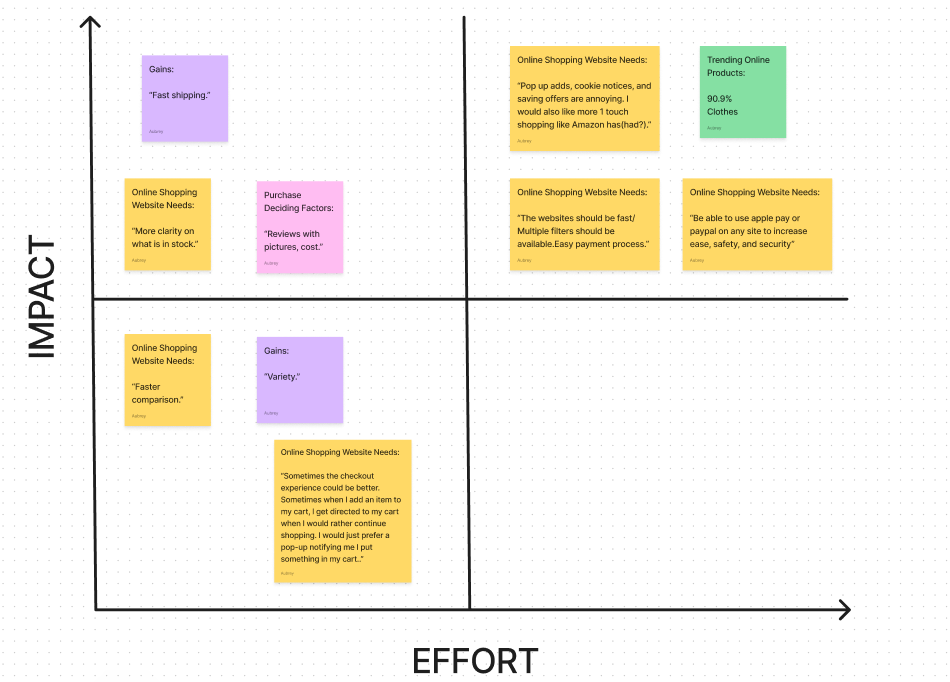
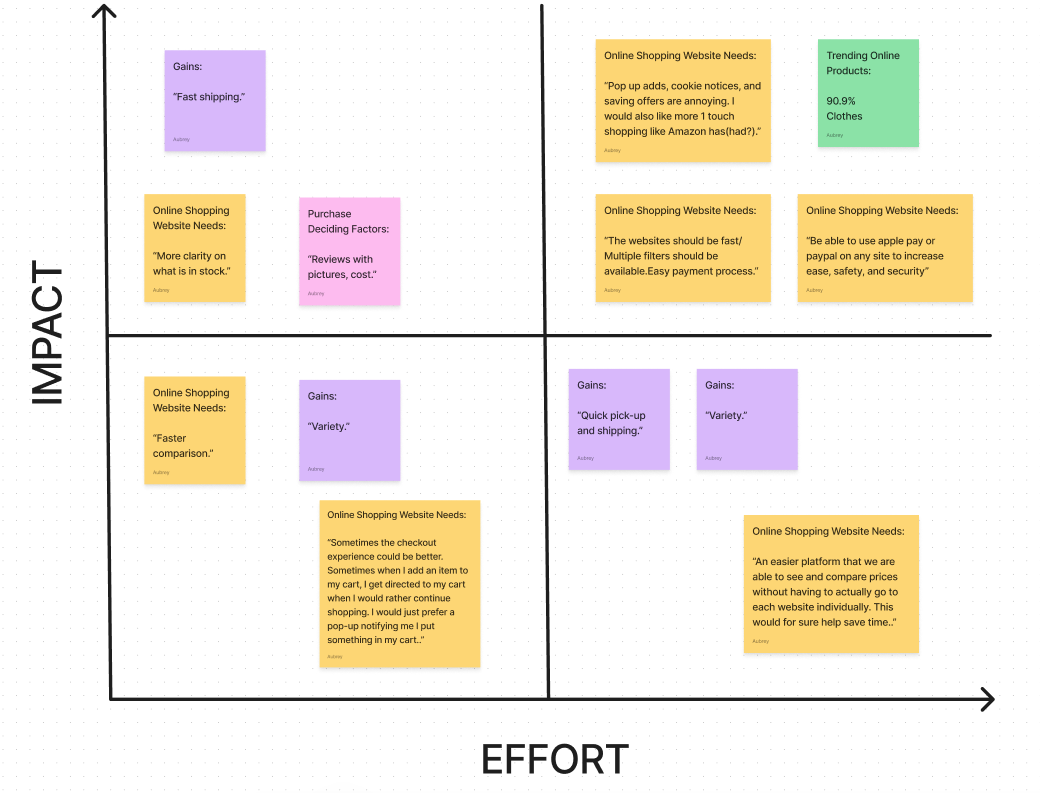
updated artifact colors and added fpm

Changed region(s): [[0.0916, 0.0, 0.9768, 1.0], [0.7021, 0.6466, 0.8853, 0.8314], [0.0305, 0.3387, 0.0611, 0.5235]]

diff --git a/src/Pages/TAi.js b/src/Pages/TAi.js
@@ -14,7 +14,7 @@ import UserPersona from '../Images/appareldesigns/userpersonameg.png';
 import tshirtDesigns from '../Images/appareldesigns/tshirtdesigns.png';
 //import AffinityDiagram from '../Images/appareldesigns/research/affinitydiagram.png';
 import ZoomedInAffinityDiagram from '../Images/appareldesigns/research/zoomedinaffinitydiagram.png';
-import FeaturePrioritization from '../Images/catwalkcompany/images/FeaturePrioritizationMatrix.jpg';
+import FeaturePrioritization from '../Images/appareldesigns/ideation/featureprioritizationmatrix.png';
 import Sitemap from '../Images/catwalkcompany/images/catwalkcositemap.jpg';
 //import ValuePropositionCanvas from '../Images/catwalkcompany/images/CatwalkCoValuePropositionCanvas.png'
 import EmpathyMap from '../Images/appareldesigns/research/empathymap.png'; 
@@ -76,7 +76,7 @@ const customerQuote = {
 }
 
 const quote = {
-  color: '#30638E', 
+  color: '#00022E', 
   fontSize: '30px',
   textAlign: 'center', 
   fontFamily: 'Merriweather',
@@ -87,39 +87,39 @@ const quote = {
 
 
 const age = {
-  border: '1px solid #9E0031'
+  border: '1px solid #00022E'
 }
 
 const gender = {
-  border: '1px solid #9E0031'
+  border: '1px solid #00022E'
 }
 
 const ageRange = {
   padding: '50px 70px 20px 70px',
   textAlign: 'center', 
   fontSize: '32px',
-  color: '#9E0031',
+  color: '#00022E',
 }
 
 const ageNumbers = {
   padding: '5px 70px',
   textAlign: 'center',
   fontSize: '36px',
-  color: '#9E0031',
+  color: '#00022E',
 }
 
 const genderTitle = {
   padding: '50px 70px 20px 70px',
   textAlign: 'center',
   fontSize: '32px',
-  color: '#9E0031',
+  color: '#00022E',
 }
 
 const genderMajority = {
   padding: '5px 70px',
   textAlign: 'center',
   fontSize: '36px',
-  color: '#9E0031',
+  color: '#00022E',
 }
 
 
@@ -340,7 +340,7 @@ const paragraphBLink = {
   fontSize: '20px', 
   fontFamily: 'Merriweather',
   fontWeight: '300', 
-  color: '#9E0031'
+  color: '#00022E'
 
 
 }
@@ -932,7 +932,7 @@ needs. A Feature Prioritization Matrix lets me organize these requests based upo
 <Typography sx={titleB}>Value Proposition Statement</Typography>
 
 <Typography sx={paragraphB}>TAi is an is Ai clothing e-commerce platform tailored to find the right fit for online shoppers. With its custom apparel, 
-affordable prices, and trustworthy reviews, TAi will increase the return on investment and decrease disappointment in customer 
+affordable prices, and trustworthy reviews, TAi will increase the return on investment and decrease disappointment and quantity in customer 
 returns. We're better than our competitors because we focus on removing company and product waste as we tailor to each custom fit without requiring 
 our customers to try our clothing on first. We're believable because we listen to our audience and provide solutions for all parties involved.</Typography>
 
